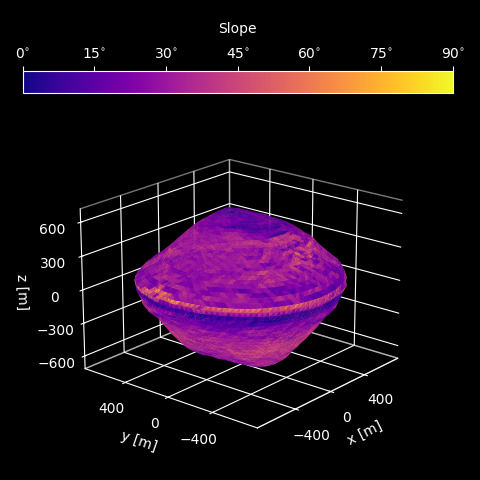
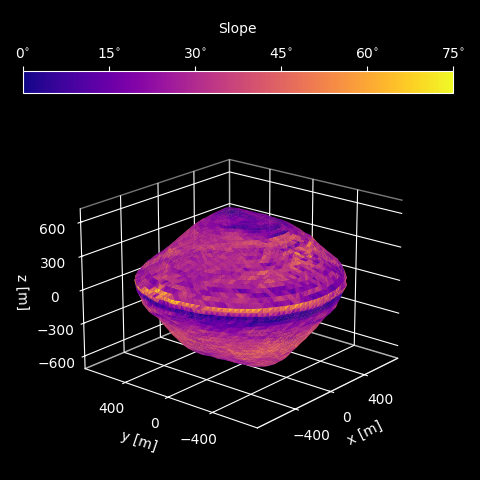
fixing bug in gravity calculation that affected concave shapes (i.e., contact binaries). Thank you Toshi!!!

diff --git a/polygrav.py b/polygrav.py
@@ -283,7 +283,6 @@ def recenter_shape(verts,faces, align_principal_axes=True):
         eigVal = eigVal[order]
         eigVec = eigVec[:,order]
         verts = np.dot(verts, eigVec)
-
     return verts
 
 def recenter_shape_porter(verts,faces, vertex_normals, align_principal_axes=True):
@@ -349,6 +348,69 @@ def recenter_shape_porter(verts,faces, vertex_normals, align_principal_axes=True
         vertex_normals = np.dot(vertex_normals, eigVec)
 
     return verts, vertex_normals
+
+
+def compute_principal_axes(verts, faces):
+    #compute the offset and rotation matrix that would rotate a shape model to principal axis alignment
+
+    rho = 1 #doesn't actually matter, density can be any constant
+    P = np.zeros((3,3))
+    for j in range(0,3):
+        for k in range(0,3):
+            V = 0.0
+            R = np.zeros(3)
+            for i in range(0,len(faces[:,0])):
+                D = verts[faces[i,0]]
+                E = verts[faces[i,1]]
+                F = verts[faces[i,2]]
+
+                G = E-D
+                H = F-D
+                N = np.cross(G,H)
+                dV = np.abs(np.dot(D/3.0,N/2.0))
+
+                dR = (D+E+F)/4.0
+                V += dV
+                R += dV*dR
+
+                P[j,k] += (rho*dV/20.) * (2.*D[j]*D[k] + 2.*E[j]*E[k] + 2.*F[j]*F[k] 
+                                         + D[j]*E[k] + D[k]*E[j] 
+                                         + D[j]*F[k] + D[k]*F[j]
+                                         + E[j]*F[k] + E[k]*F[j])
+    R = R/V
+
+
+    offset = R #want to return this
+
+
+    M = rho*V
+    X, Y, Z = R
+    #make inertia tensor:
+    Ixx = np.sum(np.diag(P)) - P[0,0]
+    Iyy = np.sum(np.diag(P)) - P[1,1]
+    Izz = np.sum(np.diag(P)) - P[2,2]
+    Ixy = -P[0,1]
+    Ixz = -P[0,2]
+    Iyz = -P[1,2]
+
+    I = np.array([[Ixx, Ixy, Ixz],
+                  [Ixy, Iyy, Iyz],
+                  [Ixz, Iyz, Izz]])
+
+    I -= M*np.array([[Y**2+Z**2, -X*Y, -X*Z],
+                     [-X*Y, X**2+Z**2, -Y*Z],\
+                     [-X*Z, -Y*Z, X**2+Y**2]])
+
+    #rotate verts to principal axis alignment
+    eigVal, eigVec = np.linalg.eig(I)
+    order = np.argsort(eigVal)
+    eigVal = eigVal[order]
+    eigVec = eigVec[:,order]
+    # verts = np.dot(verts, eigVec)
+    return offset, eigVec
+
+
+
 
 def polygrav_slow(r_field, sigma, verts, faces, edges, faces_on_edge, G=6.67430e-11):
     #dont use this....

diff --git a/example/surface_slopes.py b/example/surface_slopes.py
@@ -54,10 +54,10 @@ a_mag = np.linalg.norm(a_net, axis=1)[:, np.newaxis]
 slopes = np.degrees(np.arccos(np.sum(-normals*a_net/a_mag,axis=1)))
 
 
-
+print("maximum slope:", np.max(slopes))
 
 cmap = 'plasma'
-vmax=90
+vmax=75
 norm = mpl.colors.Normalize(vmin=0.0, vmax=vmax)
 mappable = mpl.cm.ScalarMappable(cmap=cmap, norm=norm)
 colors = mpl.colormaps.get_cmap(cmap)(norm(slopes))[:,:3]
@@ -88,7 +88,7 @@ for tick in cbar.get_ticks():
     tickLabels += [r"${0}^{{\circ}}$".format(tick),]
 cbar.set_ticklabels(tickLabels)
 
-
+azim, elev = -140, 20
 ax.view_init(azim=-140.0, elev=20.0)
 
 ax.xaxis.set_major_locator(mpl.ticker.MaxNLocator(5))
@@ -97,11 +97,38 @@ ax.zaxis.set_major_locator(mpl.ticker.MaxNLocator(5))
 
 plt.tight_layout()
 plt.savefig('slopes.png')
-plt.close()
-
-
-
 print("3D surface slope plot saved to slopes.png")
+# plt.close()
+
+
+# a_normal = np.sum(a_net*normals,axis=1) #normal component magnitude
+# a_hor = a_net - a_normal.reshape(-1,1)*normals #subtract off normal component
+# a_hor_norm = a_hor/np.linalg.norm(a_hor,axis=1).reshape(-1,1) #acceleration parallel to surface, normalized
+# nskip = 10
+# arrow_length = 75
+# distance = 1e6  # assume observer is far away 
+# camera_position = np.array([
+#     distance * np.cos(np.radians(elev)) * np.cos(np.radians(azim)),  # X
+#     distance * np.cos(np.radians(elev)) * np.sin(np.radians(azim)),  # Y
+#     distance * np.sin(np.radians(elev))                       # Z
+# ])
+
+# arrow_pos = face_midpoints[::nskip,:]
+# arrow_dir = a_hor_norm[::nskip,:]
+# arrow_dir /= np.linalg.norm(arrow_dir,axis=1).reshape(-1,1)
+# arrow_norms = normals[::nskip,:]
+# arrow_pos += arrow_norms*20
+
+# to_arrows = arrow_pos - camera_position
+# dots = np.sum(arrow_norms*to_arrows, axis=1)
+# visible_arrows = np.where(dots<0.0)[0]
+# x,y,z = arrow_pos[visible_arrows,0], arrow_pos[visible_arrows,1], arrow_pos[visible_arrows,2]
+# u,v,w = arrow_dir[visible_arrows,0], arrow_dir[visible_arrows,1], arrow_dir[visible_arrows,2]
+
+# quiver_plot=ax.quiver(x,y,z,u,v,w, length=arrow_length, normalize=False, color='w')#, zorder=10)
+# plt.savefig('slopes_and_direction.png', dpi=300)
+
+
 
 
 

diff --git a/src/libpolygrav.c b/src/libpolygrav.c
@@ -150,9 +150,11 @@ void polyGrav(double r_field[3], double verts[][3], int faces[][3], int edges[][
         Vector3D nhat = cross_product(e1, e2); //normal vector
         nhat = scalar_multiply(1./norm(nhat), nhat);
 
-        if (dot_product(nhat, v1) < 0.0) {
-            nhat = scalar_multiply(-1.0, nhat); //ensure pointing outwards
-        }
+        // this was originally done to ensure the normal vector always points 'outwards'
+        // but this will leade to mistakes for concave shapes!
+        // if (dot_product(nhat, v1) < 0.0) {
+        //     nhat = scalar_multiply(-1.0, nhat); //ensure pointing outwards
+        // }
 
         nhat_faces[i] = nhat; //save for later
 
